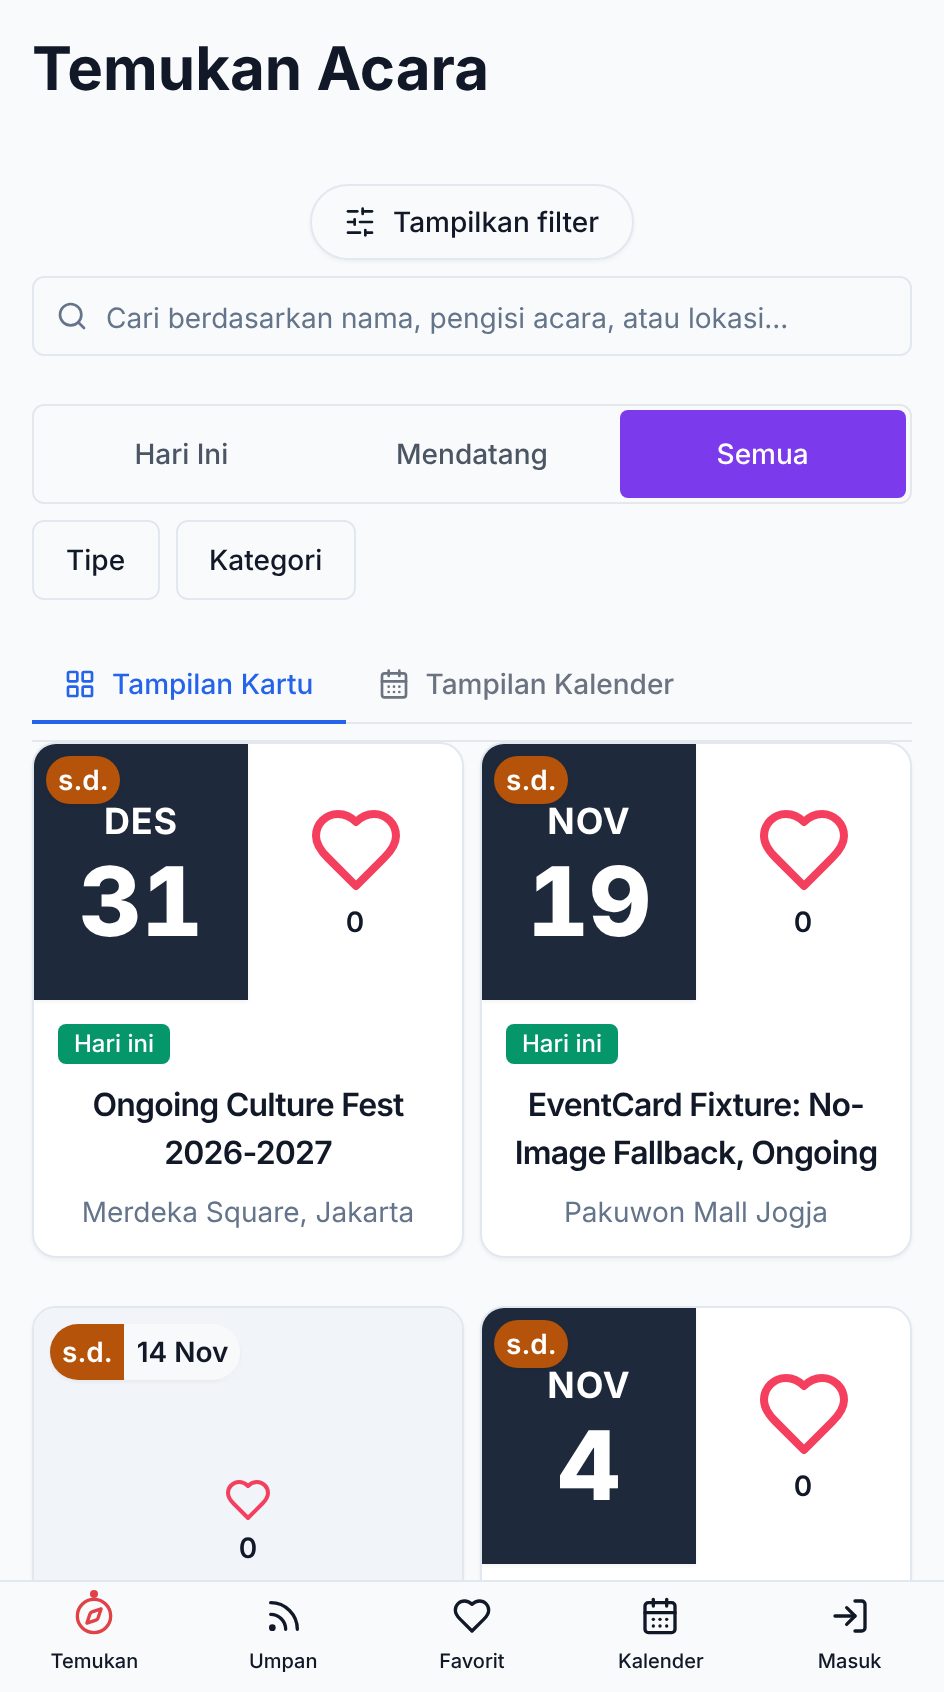
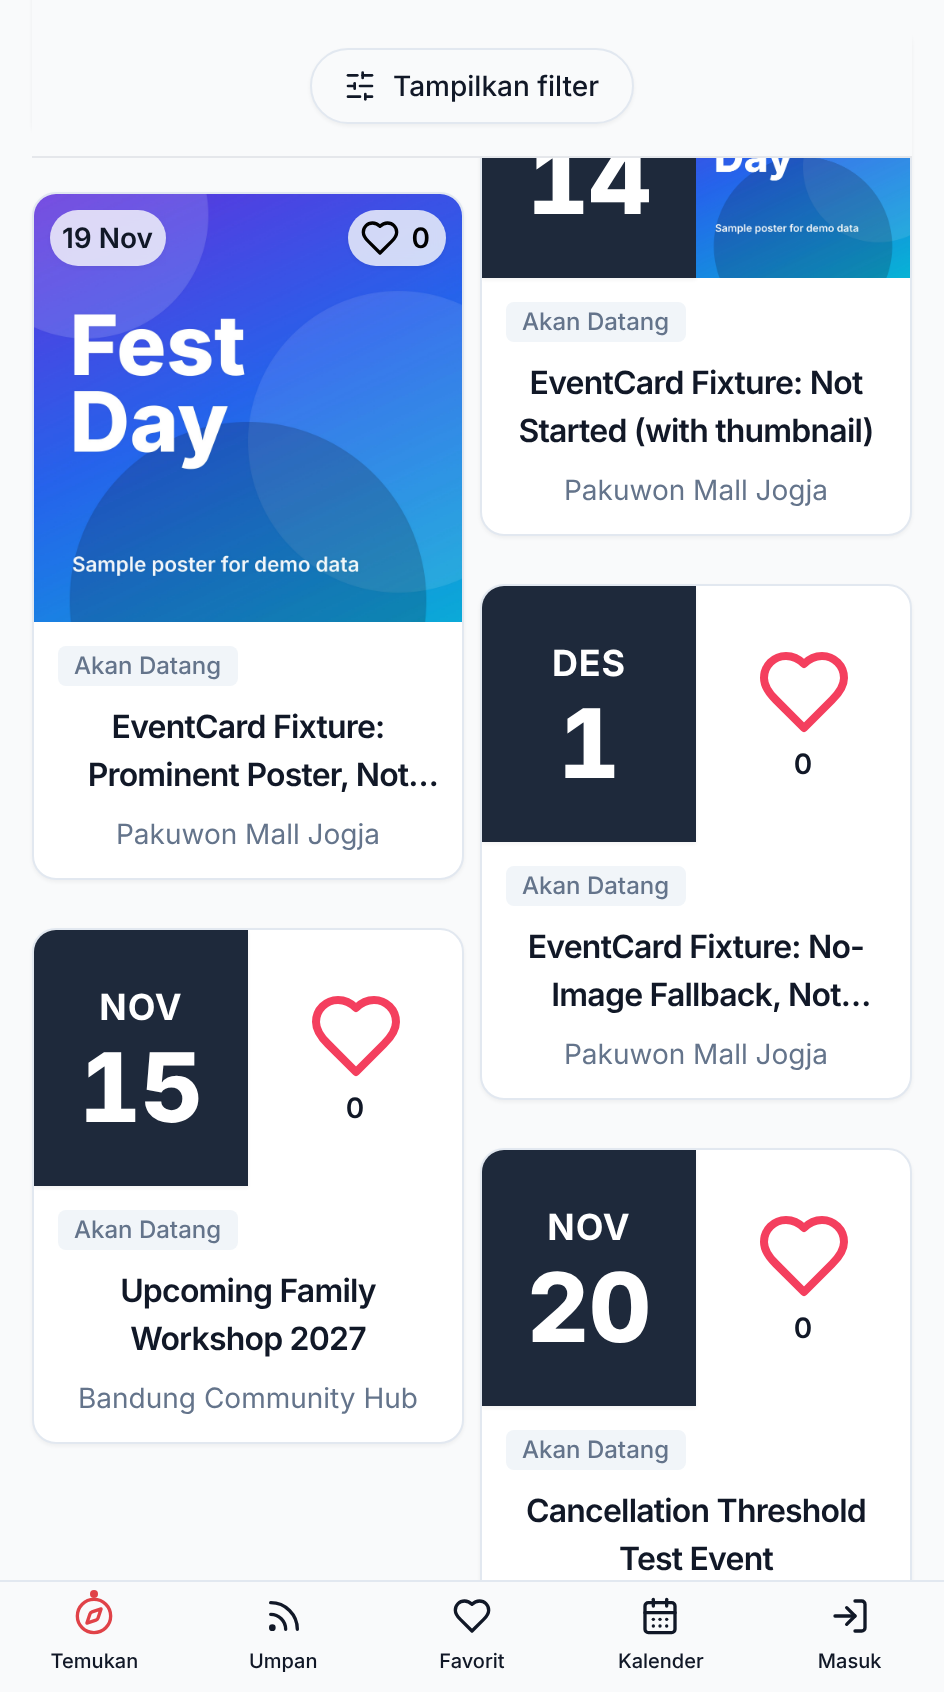
docs(readme): current-build screenshot shows the large-poster card
Scrolled to the prominent-poster fixtures so the capture includes the big-thumbnail card layout. The
fixtures' CloudFront image now answers AccessDenied, so the caption says a generated sample poster was
supplied for the images during the capture.

Claude-Session: https://claude.ai/code/session_0111fUM8Jv5BEKk6wjGpHtQz

diff --git a/README.md b/README.md
@@ -25,12 +25,12 @@ FestDaily helps city residents and families cut through disorganized event info 
     <th align="center">UI target</th>
   </tr>
   <tr>
-    <td align="center"><img src="docs/assets/discovery-feed-current.png" width="320" alt="FestDaily mobile discovery feed as built today, Indonesian locale — page title, a Show filters toggle, a search field, a Today / Upcoming / All switch, Type and Category filters, Card and Calendar view tabs, a two-column grid of event cards with date boxes, and a bottom tab bar"></td>
+    <td align="center"><img src="docs/assets/discovery-feed-current.png" width="320" alt="FestDaily mobile discovery feed as built today, Indonesian locale — a two-column masonry of event cards, including a large-poster card with a big thumbnail, a date chip and a favorite button, next to cards with a date box and a smaller thumbnail, and a bottom tab bar"></td>
     <td align="center"><img src="docs/assets/discovery-feed-ui-target.png" width="320" alt="FestDaily mobile discovery feed design target — search bar with a Filter button, category chips (All, Nearest 4 km, Promo &amp; Discounts, Sports), a two-column grid of photo event cards with status badges, and a bottom tab bar"></td>
   </tr>
 </table>
 
-*Left: the mobile discovery feed as it renders today (Indonesian locale, signed out), captured with Playwright from a production build against the seeded local demo data, so the events are test fixtures without photos. Right: the design target the build is working toward — photo cards, status badges (ongoing / soon) and distance and end date on each card. The two are not the same yet.*
+*Left: the mobile discovery feed as it renders today (Indonesian locale, signed out, scrolled to the large-poster cards), captured with Playwright from a production build against the seeded local demo data, so the events are test fixtures. The fixtures' image host no longer serves the files, so a generated sample poster was supplied for those images during the capture; the card layout is the app's own. Right: the design target the build is working toward — photo cards, status badges (ongoing / soon) and distance and end date on each card. The two are not the same yet.*
 
 ---
 
